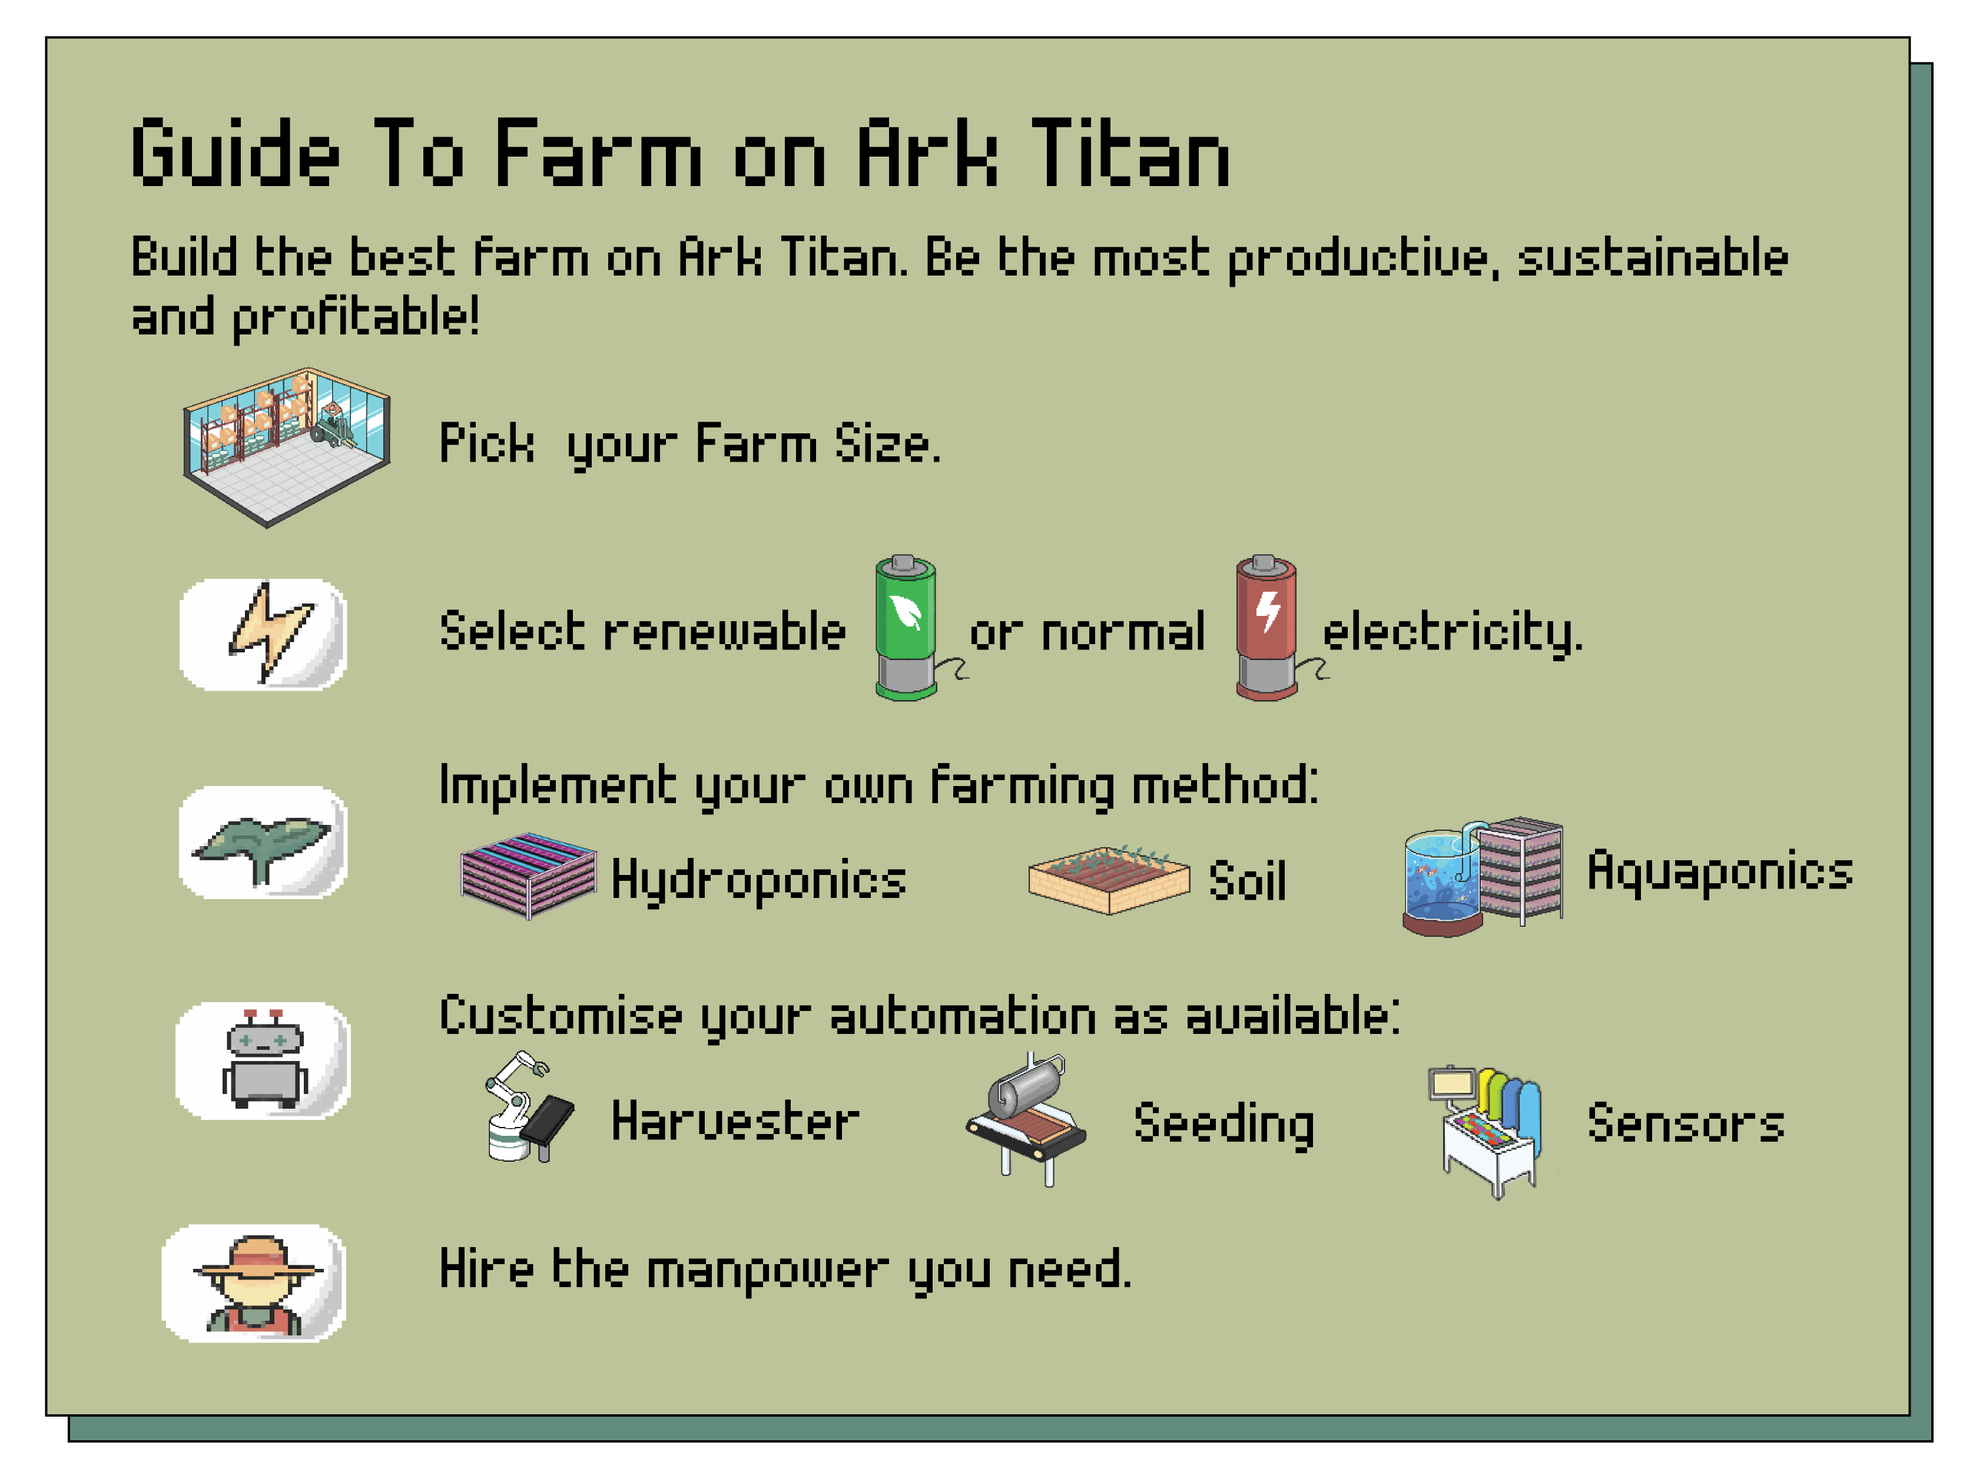
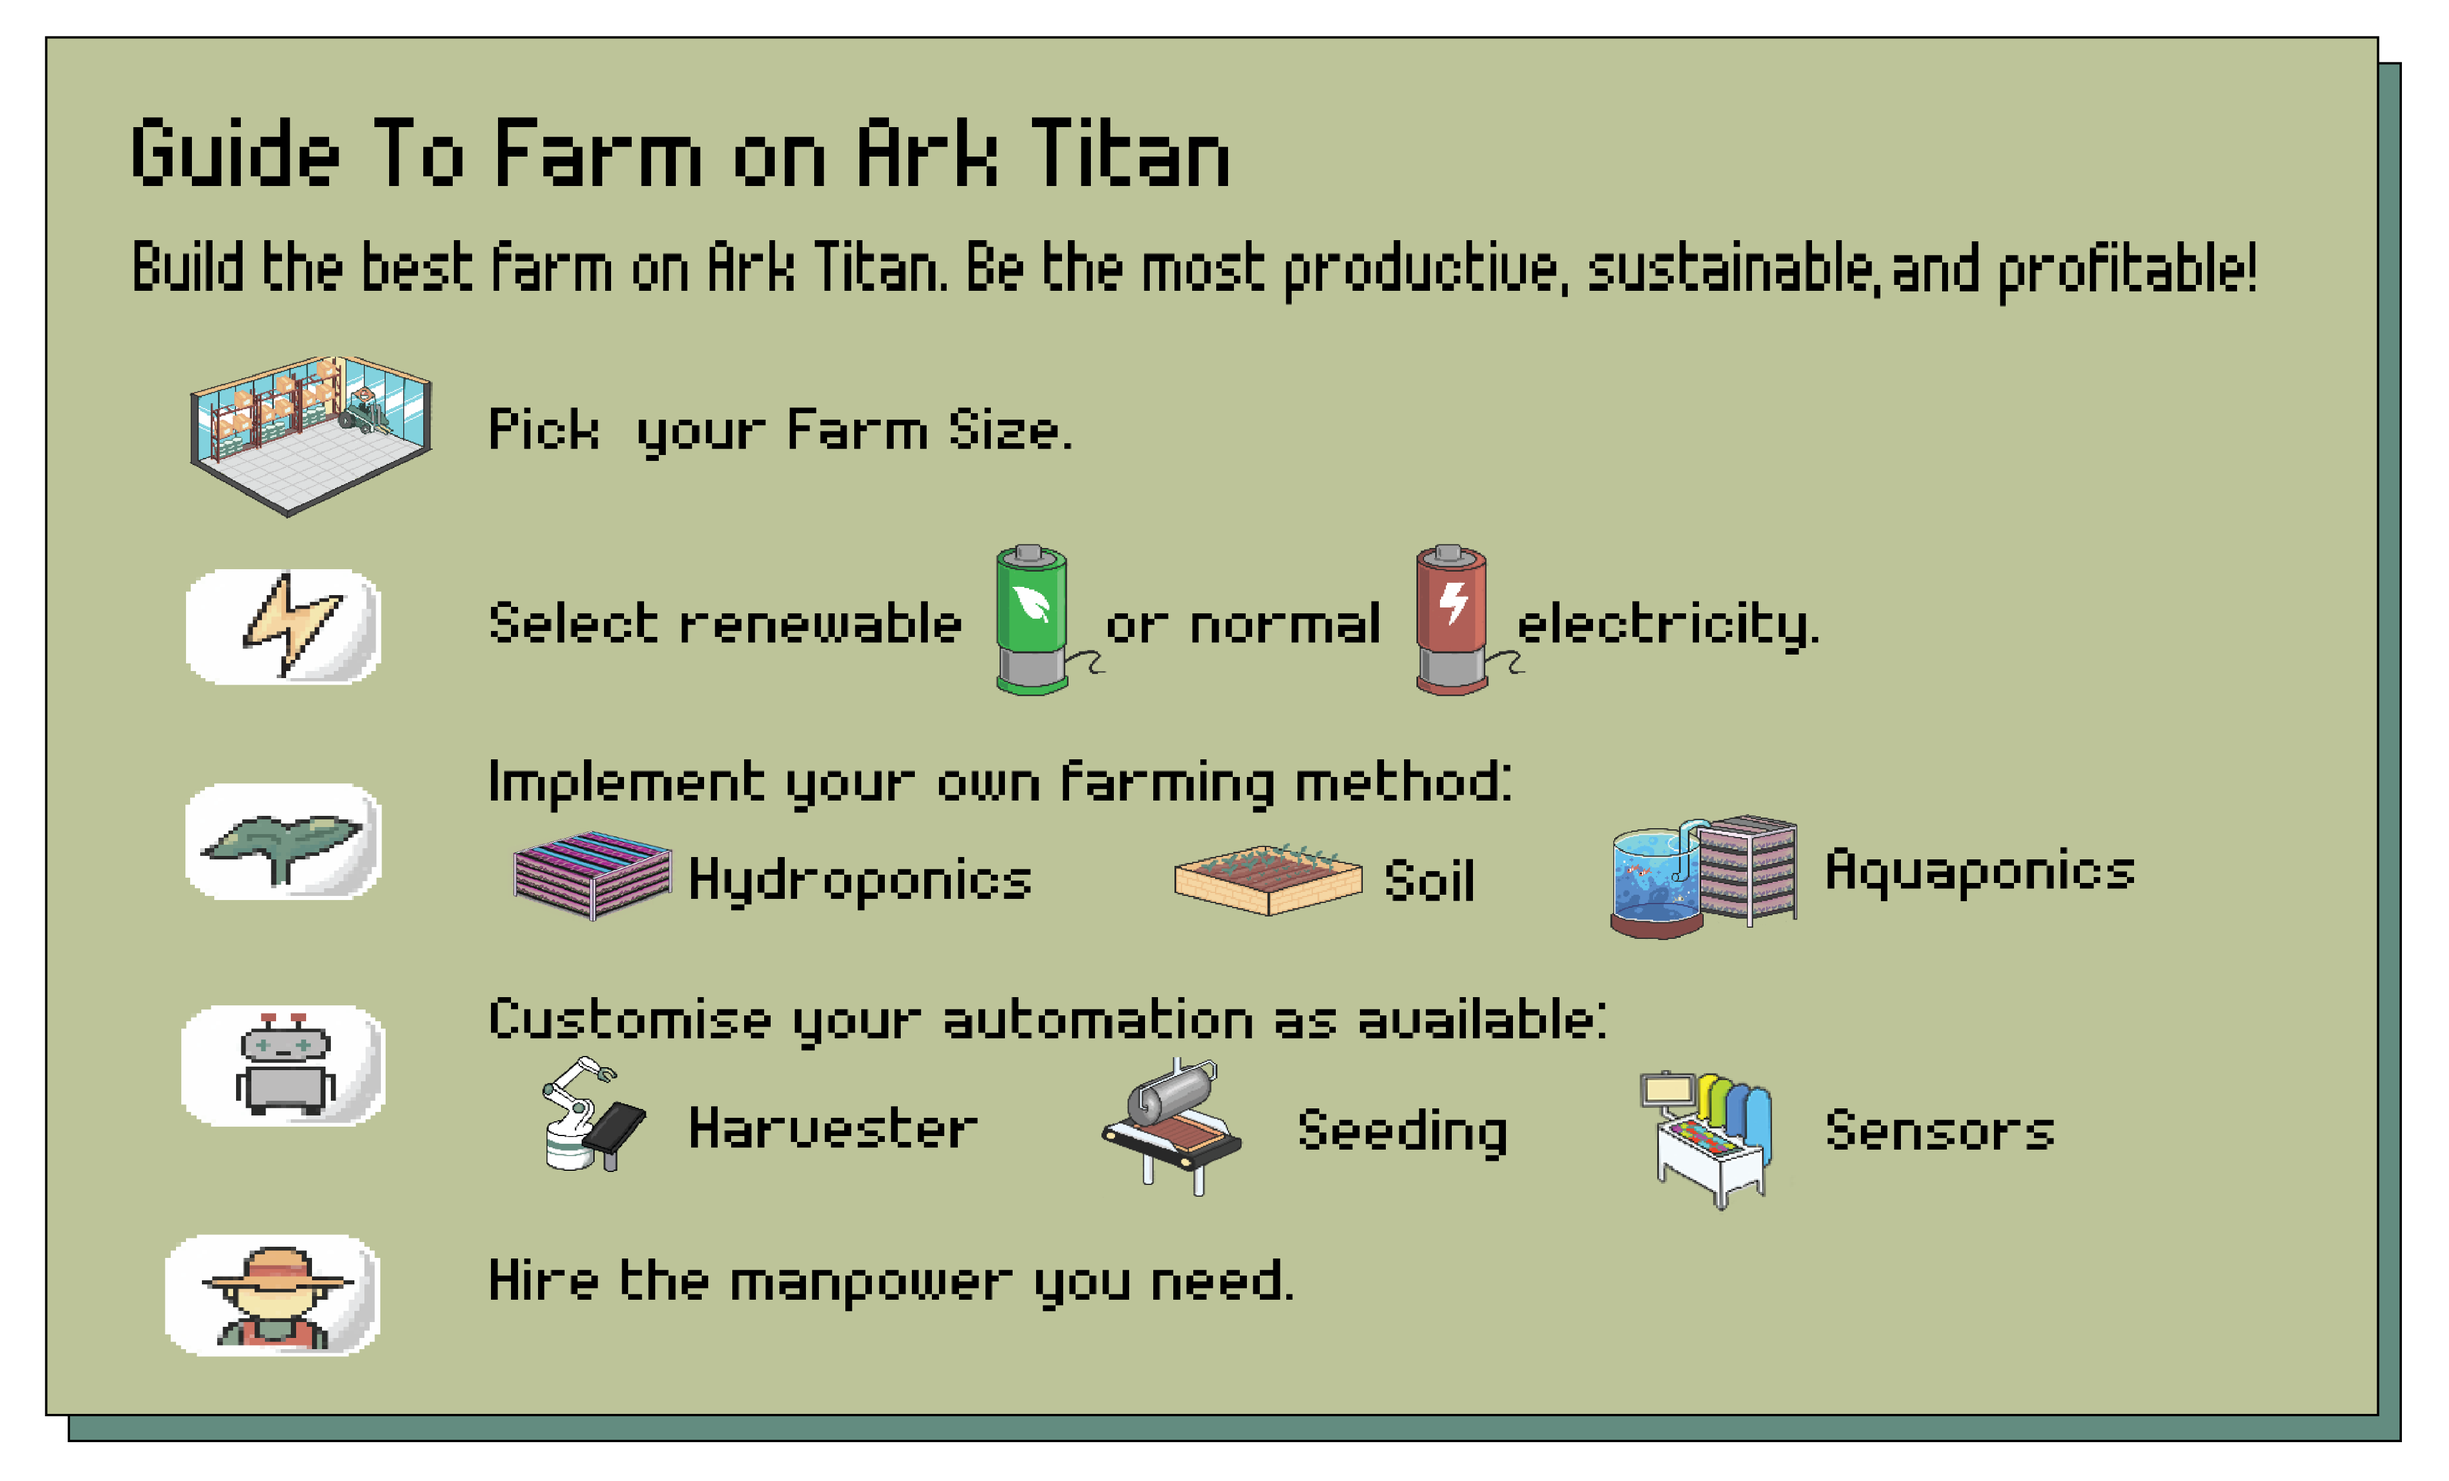
resize guide png

Changed region(s): [[0.0, 0.0312, 0.9982, 0.9984]]

diff --git a/src/main.js b/src/main.js
@@ -29,7 +29,7 @@ var config = {
 
 var game = new Phaser.Game(config);
 
-function resizeApp ()
+/*function resizeApp ()
 {
     // Width-height-ratio of game resolution
     // Replace 360 with your game width, and replace 640 with your game height
@@ -54,4 +54,4 @@ function resizeApp ()
     canvas.style.height	= height + 'px';
 }
 
-window.addEventListener('resize', resizeApp);
+window.addEventListener('resize', resizeApp);*/

diff --git a/src/scene/guide.js b/src/scene/guide.js
@@ -23,7 +23,7 @@ var guideScene = new Phaser.Class({
             console.log('next button is triggered');
             this.scene.start("roomSizeScene");
         }, this);
-		this.scale.displaySize.setAspectRatio( 800/600 );
+		this.scale.displaySize.setAspectRatio( 1100/600 );
 		this.scale.refresh();
     },
     
